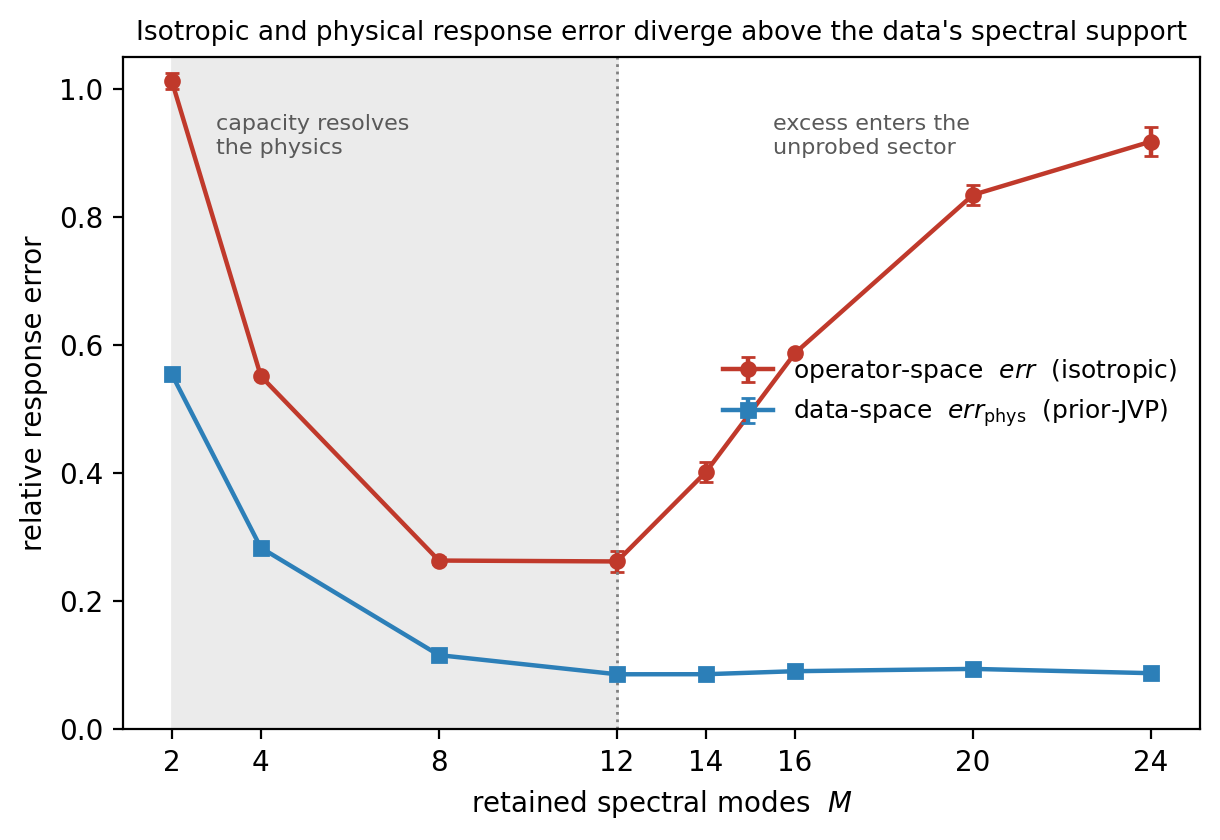
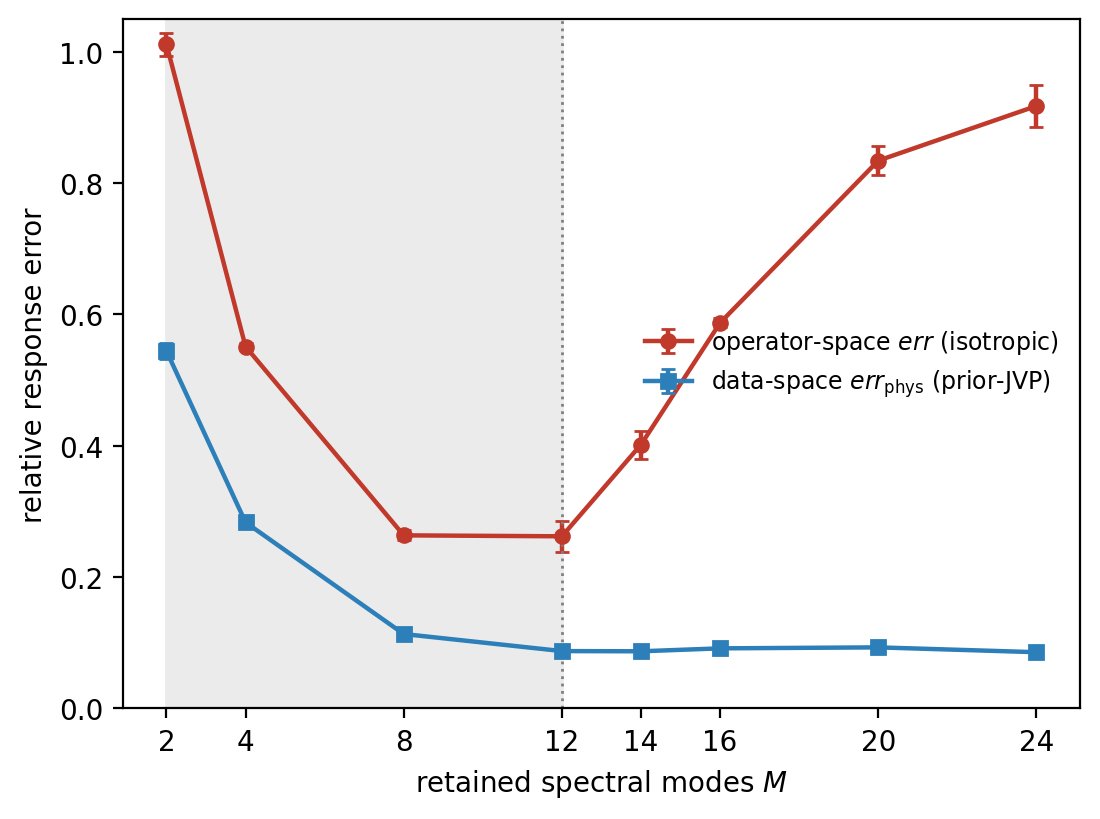
3 seed isotropic and physical response error

Changed region(s): [[0.0, 0.0, 0.9891, 0.9158], [0.3709, 0.9463, 0.7109, 0.9768]]

diff --git a/scripts/fig_twometric.py b/scripts/fig_twometric.py
@@ -1,42 +1,48 @@
-# scripts/fig_twometric.py — MAIN FIGURE: operator-space vs data-space response error vs M.
-# Provenance: 3-seed means. iso = E3 retrain isotropic column; phys = E2/E3 prior-JVP.
-# Values transcribed from E3 cross-seed output (2026-09-xx run); SEs in comments.
-# If mode-sweep arrays are on disk, replace the two dicts with a loader (see bottom).
-import numpy as np, matplotlib.pyplot as plt
+# scripts/fig_twometric.py — MAIN FIGURE (left subpanel): operator- vs data-space error vs M.
+# Uniformly 3-SEED (seeds 0,1,2). iso: recomputed from Jfno_kq matrices + Jtrue_kq_200.
+# phys: mean of jvp_prior mean-field across seeds 0,1,2.  (seed3 exists for M16 but is DROPPED
+# here so every M is the same 3-seed estimator -- 4-seed M16 lives in the fixed-M tables.)
+import numpy as np, glob, os
 
-M      = np.array([2, 4, 8, 12, 14, 16, 20, 24])
-iso    = np.array([1.0115, 0.5512, 0.2636, 0.2622, 0.4018, 0.5873, 0.8343, 0.9176])
-iso_se = np.array([0.0127, 0.0037, 0.0053, 0.0165, 0.0151, 0.0049, 0.0158, 0.0225])
-phys   = np.array([0.5540, 0.2835, 0.1160, 0.0861, 0.0862, 0.0909, 0.0945, 0.0878])
-# phys SE ~0.001-0.003 (cross-seed, CRN); direction-MC common offset ~0.0025 (see E1 note)
-phys_se= np.array([0.004, 0.003, 0.003, 0.002, 0.002, 0.001, 0.002, 0.002])
+Ms = [2, 4, 8, 12, 14, 16, 20, 24]
+SEEDS = [0, 1, 2]
+Jtrue = np.load("results/Jtrue_kq_200.npy")                 # (200,128,128)
 
-SUPPORT = 12   # prior spectral support / plateau onset
+def iso_for(M):                                             # 3-seed mean over matrices
+    vals = []
+    for s in SEEDS:
+        p = f"results/Jfno_kq_seed{s}_M{M}.npy"
+        if not os.path.exists(p): return (np.nan, np.nan)
+        Jf = np.load(p)
+        vals.append(np.mean([np.linalg.norm(Jf[i]-Jtrue[i])/np.linalg.norm(Jtrue[i])
+                             for i in range(Jf.shape[0])]))
+    return float(np.mean(vals)), float(np.std(vals))
 
-fig, ax = plt.subplots(figsize=(6.2, 4.3))
+def phys_for(M):                                            # 3-seed mean over jvp_prior scalars
+    vals = []
+    for s in SEEDS:
+        p = f"results/jvp_prior_seed{s}_M{M}_lam0.0.npz"
+        if not os.path.exists(p): return (np.nan, np.nan)
+        vals.append(float(np.load(p)["mean"]))              # field is literally 'mean'
+    return float(np.mean(vals)), float(np.std(vals))
+
+iso  = np.array([iso_for(M)[0]  for M in Ms]); iso_se  = np.array([iso_for(M)[1]  for M in Ms])
+phys = np.array([phys_for(M)[0] for M in Ms]); phys_se = np.array([phys_for(M)[1] for M in Ms])
+print("M      iso     iso_sd    phys    phys_sd")
+for i, M in enumerate(Ms):
+    print(f"{M:3d}  {iso[i]:.4f}  {iso_se[i]:.4f}   {phys[i]:.4f}  {phys_se[i]:.4f}")
+
+import matplotlib.pyplot as plt
+M = np.array(Ms); SUPPORT = 12
+fig, ax = plt.subplots(figsize=(5.6, 4.2))
 ax.axvspan(M.min(), SUPPORT, color="0.92", zorder=0)
-ax.text(3.0, 0.96, "capacity resolves\nthe physics", fontsize=8, color="0.35", va="top")
-ax.text(15.5, 0.96, "excess enters the\nunprobed sector", fontsize=8, color="0.35", va="top")
-
-ax.errorbar(M, iso,  yerr=iso_se,  marker="o", ms=5, lw=1.6, capsize=2.5,
-            color="#c0392b", label=r"operator-space  $err$  (isotropic)")
-ax.errorbar(M, phys, yerr=phys_se, marker="s", ms=5, lw=1.6, capsize=2.5,
-            color="#2c7fb8", label=r"data-space  $err_{\mathrm{phys}}$  (prior-JVP)")
+ax.errorbar(M, iso,  yerr=iso_se,  marker="o", ms=5, lw=1.6, capsize=2.5, color="#c0392b",
+            label=r"operator-space $err$ (isotropic)")
+ax.errorbar(M, phys, yerr=phys_se, marker="s", ms=5, lw=1.6, capsize=2.5, color="#2c7fb8",
+            label=r"data-space $err_{\mathrm{phys}}$ (prior-JVP)")
 ax.axvline(SUPPORT, color="0.5", ls=":", lw=1.0)
-
-ax.set_xlabel(r"retained spectral modes  $M$")
-ax.set_ylabel(r"relative response error")
-ax.set_xticks(M)
-ax.set_ylim(0, 1.05)
-ax.legend(frameon=False, fontsize=9, loc="center right")
-ax.set_title("Isotropic and physical response error diverge above the data's spectral support",
-             fontsize=9.5)
-fig.tight_layout()
-fig.savefig("Results/fig_twometric.png", dpi=200, bbox_inches="tight")
-print("saved Results/fig_twometric.png")
-print(f"iso  min at M={M[iso.argmin()]} ({iso.min():.3f}); iso M24/M12 = {iso[-1]/iso[3]:.2f}x")
-print(f"phys plateau M>=12: {phys[3:].mean():.4f} +/- {phys[3:].std():.4f}")
-
-# --- IF arrays are on disk, use this instead of the hardcoded dicts above: ---
-# d = np.load("results/mode_sweep_3seed.npz")   # <-- confirm filename/keys
-# M, iso, phys = d["M"], d["iso_mean"], d["phys_mean"]; iso_se, phys_se = d["iso_se"], d["phys_se"]
+ax.set_xlabel(r"retained spectral modes $M$"); ax.set_ylabel("relative response error")
+ax.set_xticks(M); ax.set_ylim(0, 1.05)
+ax.legend(frameon=False, fontsize=8.5, loc="center right")
+fig.tight_layout(); fig.savefig("results/fig_twometric.png", dpi=200, bbox_inches="tight")
+print("saved results/fig_twometric.png")
